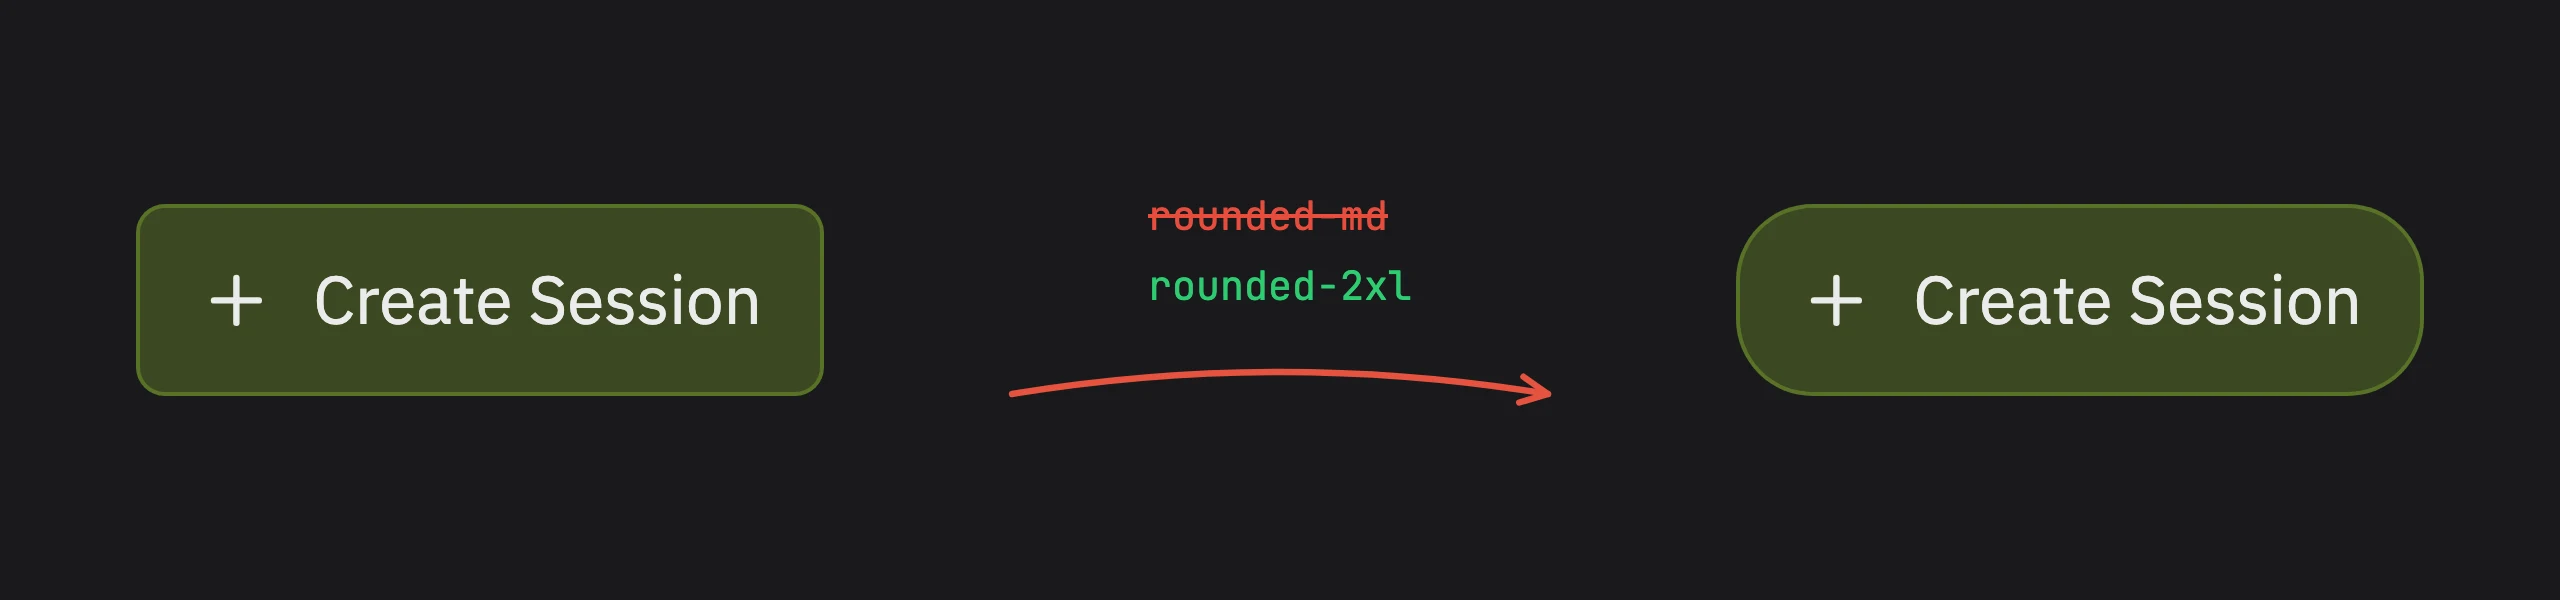
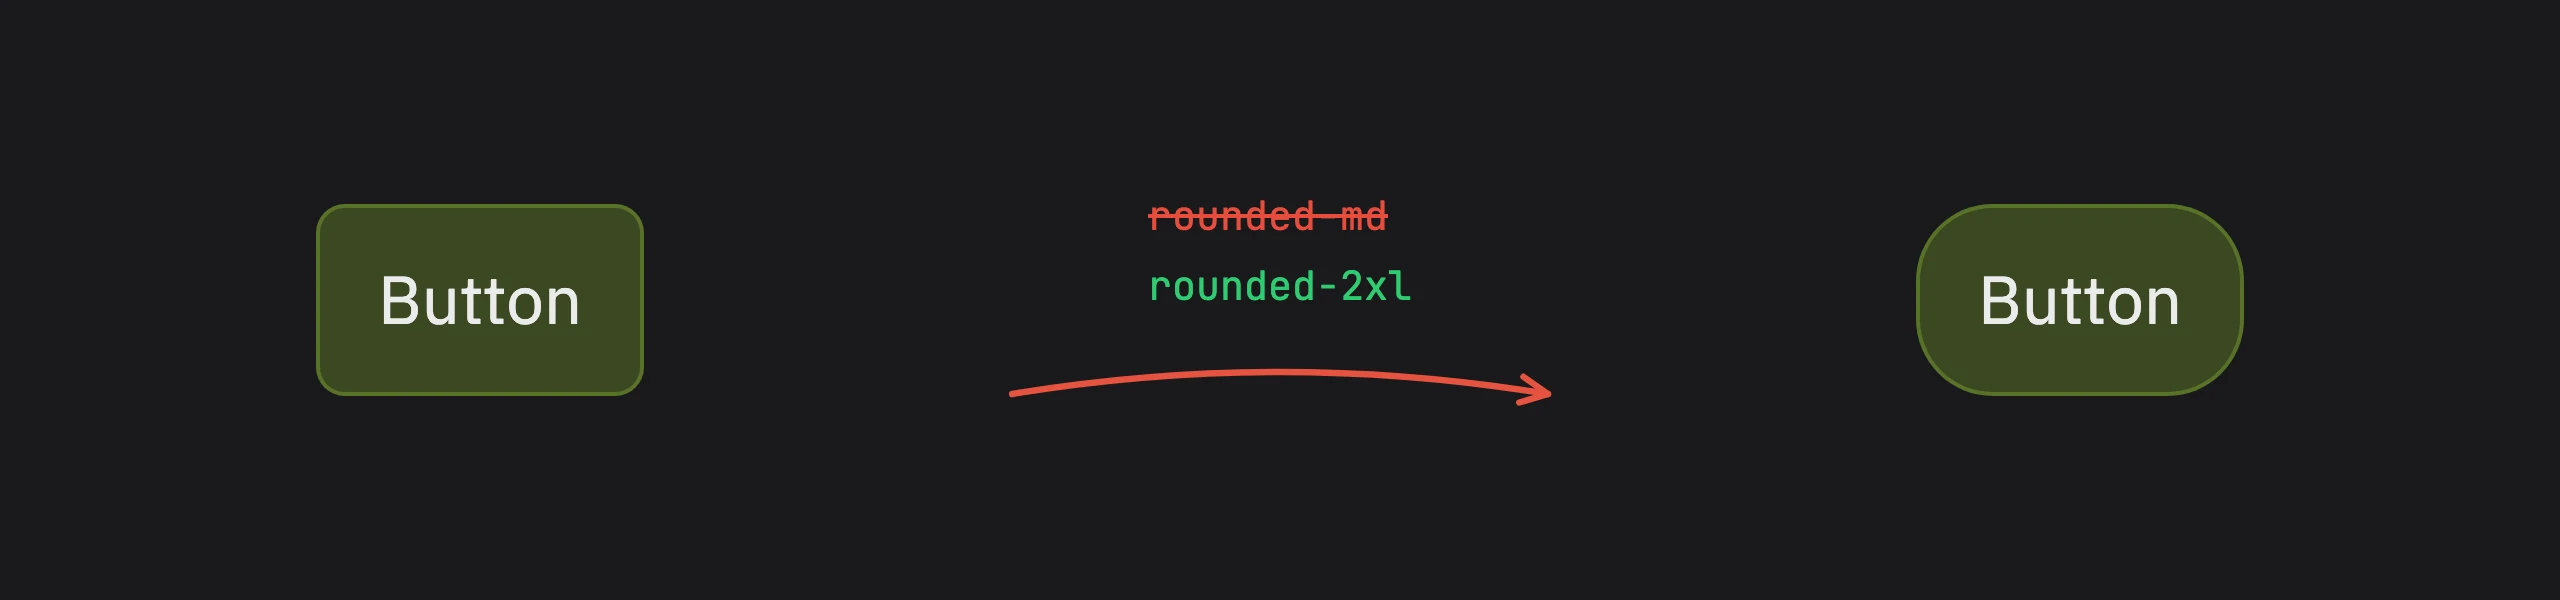
Show a plain Button in the README's class-change image

Changed region(s): [[0.6562, 0.33, 0.9688, 0.66], [0.0312, 0.33, 0.3438, 0.66]]

diff --git a/README.md b/README.md
@@ -6,7 +6,7 @@ Docs screenshots that redraw themselves.
 
 One small UI change can leave hundreds of screenshots in your docs out of date at once. Retaking each one means setting up the right data, logins and credentials again, and nobody retakes a thousand screenshots in one sitting. rerecord records each flow in your running app once, then redraws every screenshot from your frontend build whenever you want. It's built on [Playwright](https://playwright.dev), using its recorder, HAR recording and request routing.
 
-<img src="https://cdn.jsdelivr.net/npm/rerecord@0.7.0/assets/card-commands.webp" alt="npx rerecord record records a scene in your running app, run once by whoever builds the feature. npx rerecord rerecord redraws every screenshot from the scenes, run any time by anyone, with only your frontend build" width="880">
+<img src="https://cdn.jsdelivr.net/npm/rerecord@0.7.1/assets/card-commands.webp" alt="npx rerecord record records a scene in your running app, run once by whoever builds the feature. npx rerecord rerecord redraws every screenshot from the scenes, run any time by anyone, with only your frontend build" width="880">
 
 ## What it solves
 
@@ -14,37 +14,37 @@ One small UI change can leave hundreds of screenshots in your docs out of date a
 
 A developer changes one class:
 
-<img src="https://cdn.jsdelivr.net/npm/rerecord@0.7.0/assets/card-button.webp" alt="The Create Session button before and after changing rounded-md to rounded-2xl" width="880">
+<img src="https://cdn.jsdelivr.net/npm/rerecord@0.7.1/assets/card-button.webp" alt="A button before and after changing rounded-md to rounded-2xl" width="880">
 
 `npx rerecord rerecord` then redraws every screenshot the button appears in:
 
-<img src="https://cdn.jsdelivr.net/npm/rerecord@0.7.0/assets/card-stale.webp" alt="Four screenshots with the old button, and the same four redrawn by npx rerecord rerecord" width="880">
+<img src="https://cdn.jsdelivr.net/npm/rerecord@0.7.1/assets/card-stale.webp" alt="Four screenshots with the old button, and the same four redrawn by npx rerecord rerecord" width="880">
 
 A redraw needs only your frontend build, the recorded steps and the recorded API responses:
 
-<img src="https://cdn.jsdelivr.net/npm/rerecord@0.7.0/assets/card-no-setup.webp" alt="Your frontend build plus the recorded steps and API responses; no backend, no database, no seed data, no shared instance" width="880">
+<img src="https://cdn.jsdelivr.net/npm/rerecord@0.7.1/assets/card-no-setup.webp" alt="Your frontend build plus the recorded steps and API responses; no backend, no database, no seed data, no shared instance" width="880">
 
 ### Set up once, by whoever builds the feature
 
 The developer building a feature already has the backend, data and any outside accounts running on their machine, so they record the screenshots then. After that, a teammate, CI or the same developer a year later can redraw or extend those screenshots without setting anything up, and nobody needs a shared instance:
 
-<img src="https://cdn.jsdelivr.net/npm/rerecord@0.7.0/assets/card-once.webp" alt="The developer building the feature records a scene once; a teammate, CI and the developer a year later redraw it with npx rerecord rerecord" width="880">
+<img src="https://cdn.jsdelivr.net/npm/rerecord@0.7.1/assets/card-once.webp" alt="The developer building the feature records a scene once; a teammate, CI and the developer a year later redraw it with npx rerecord rerecord" width="880">
 
 ### New screenshots need no setup
 
 To add a screen nobody recorded, edit the scene:
 
-<img src="https://cdn.jsdelivr.net/npm/rerecord@0.7.0/assets/card-unrecorded.webp" alt="A dialog that was never recorded, added with two steps and redrawn" width="880">
+<img src="https://cdn.jsdelivr.net/npm/rerecord@0.7.1/assets/card-unrecorded.webp" alt="A dialog that was never recorded, added with two steps and redrawn" width="880">
 
 If a screen needs a paid plan or running services, give it sample data in the recording instead:
 
-<img src="https://cdn.jsdelivr.net/npm/rerecord@0.7.0/assets/card-gated.webp" alt="An empty screen behind a paid plan, redrawn with sample data after editing the recorded API response" width="880">
+<img src="https://cdn.jsdelivr.net/npm/rerecord@0.7.1/assets/card-gated.webp" alt="An empty screen behind a paid plan, redrawn with sample data after editing the recorded API response" width="880">
 
 ### Demo data stays clean
 
 Scenes are text, so one find and replace fixes a name or email in every screenshot:
 
-<img src="https://cdn.jsdelivr.net/npm/rerecord@0.7.0/assets/card-data.webp" alt="A keyboard-mash name and email replaced with clean demo data" width="880">
+<img src="https://cdn.jsdelivr.net/npm/rerecord@0.7.1/assets/card-data.webp" alt="A keyboard-mash name and email replaced with clean demo data" width="880">
 
 ## How it works
 
